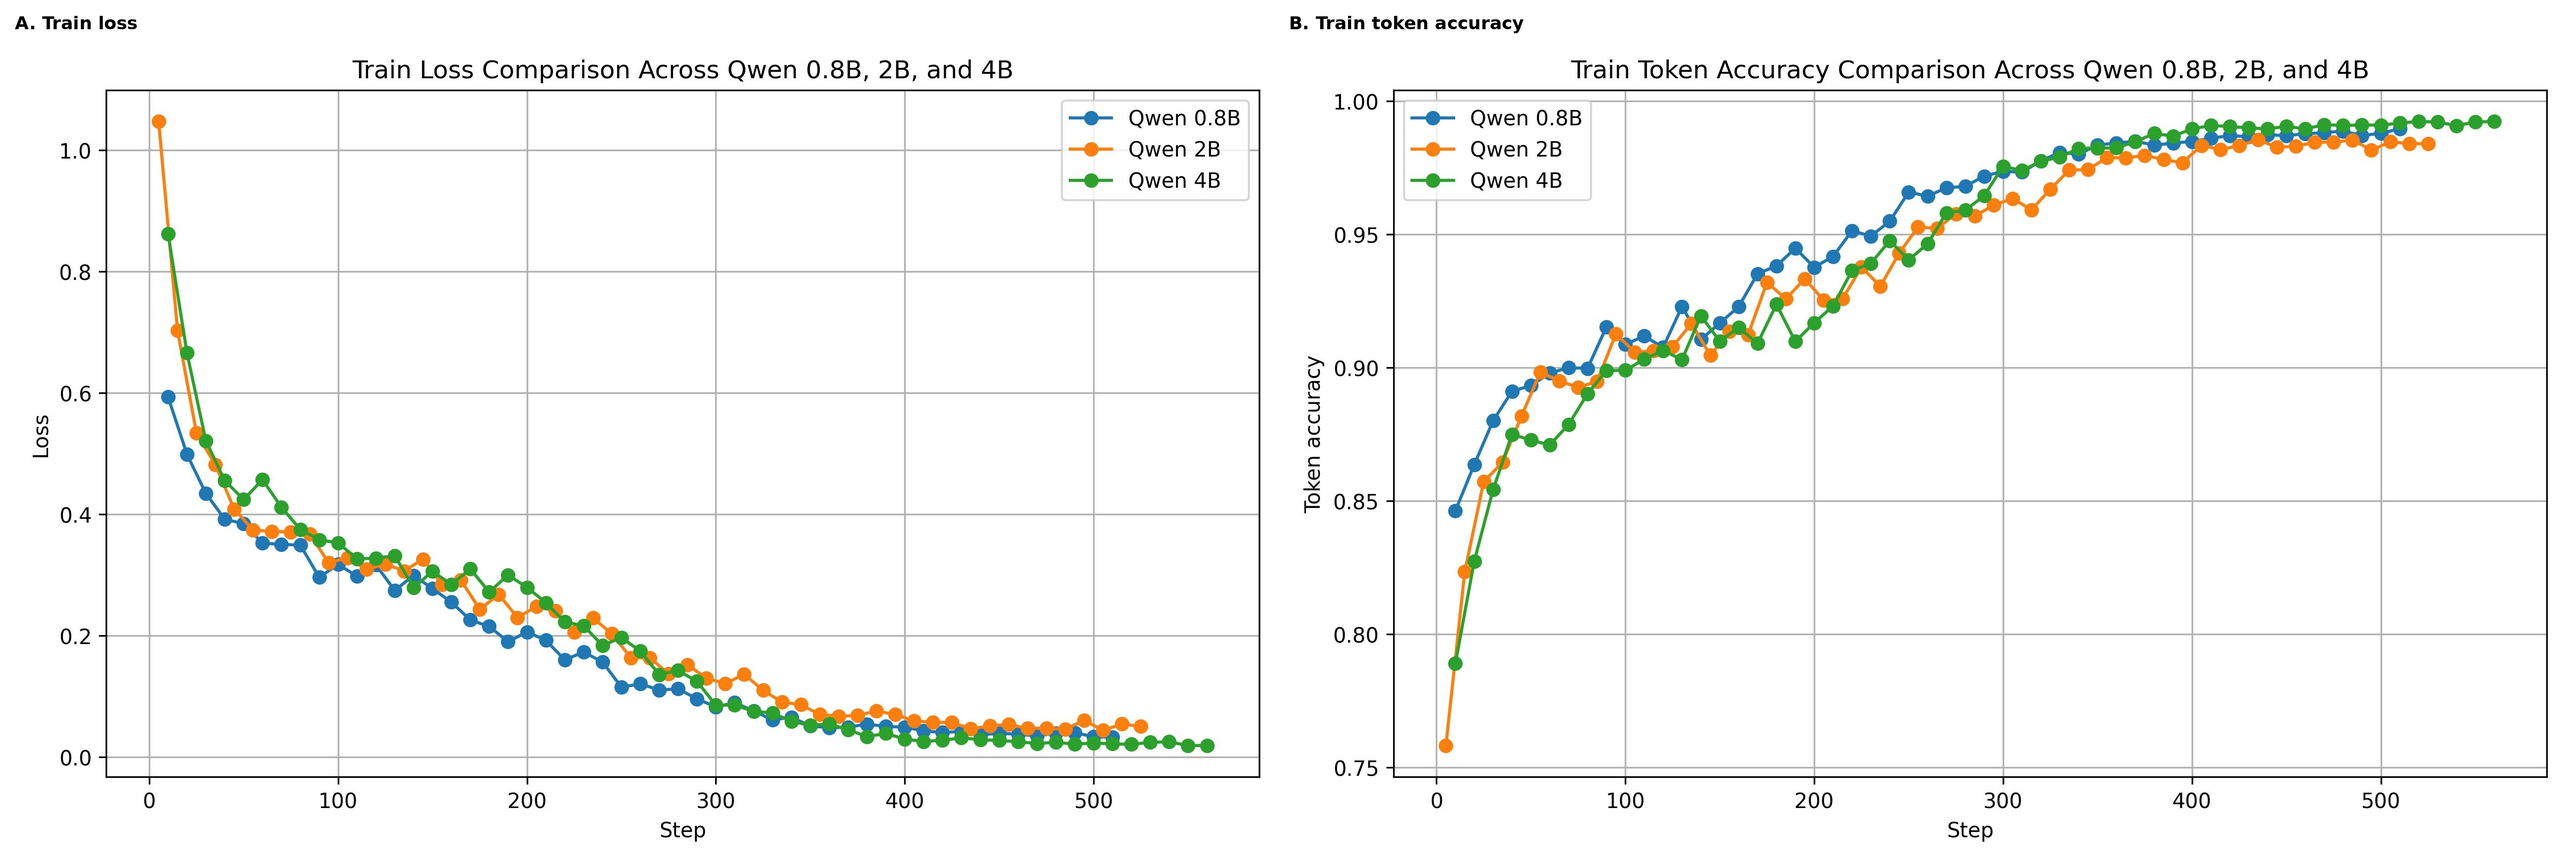
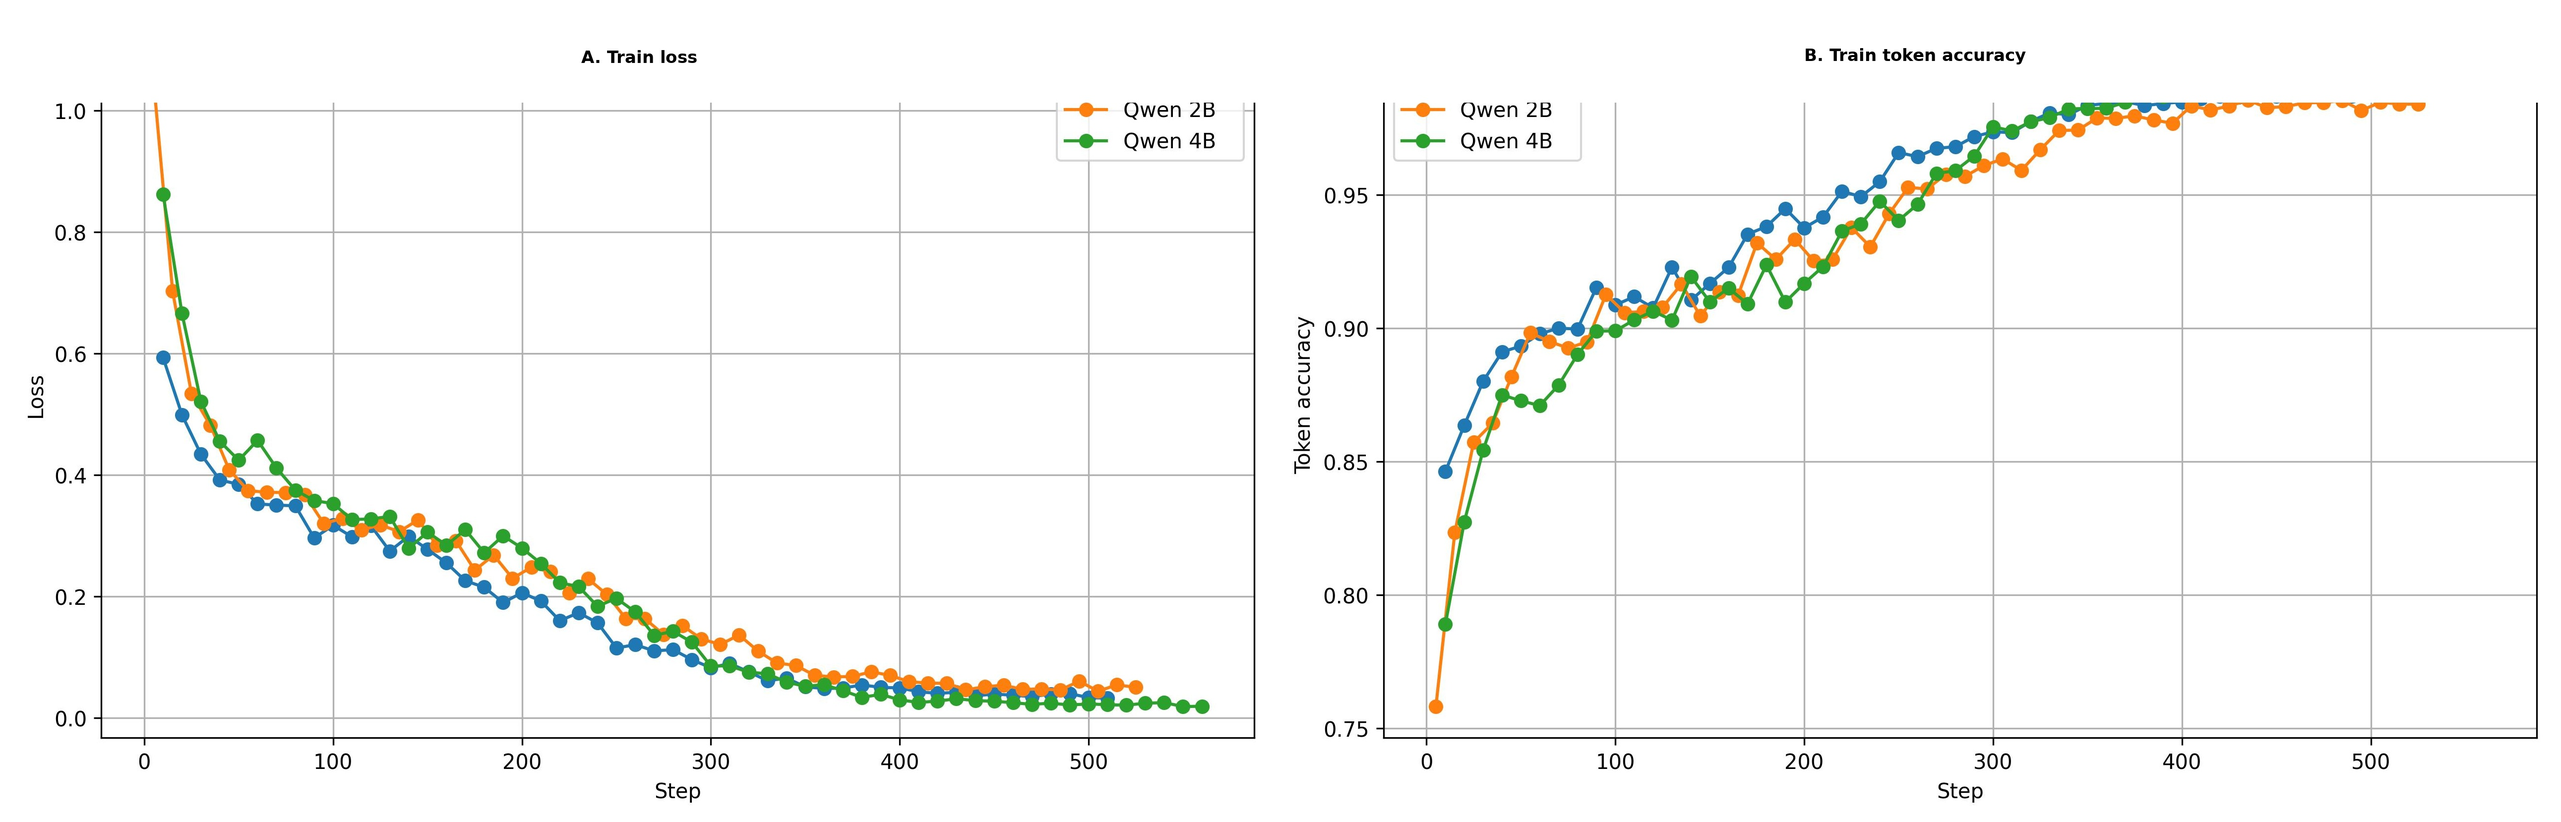
Redraw combined train curves figure v2

diff --git a/scripts/combine_train_curves_side_by_side_v2.py b/scripts/combine_train_curves_side_by_side_v2.py
@@ -5,6 +5,7 @@ IN_DIR = Path("comparison")
 img1_path = IN_DIR / "comparison_train_loss_only.jpg"
 img2_path = IN_DIR / "comparison_train_token_accuracy_only.jpg"
 
+# 直接覆盖之前的 v2 输出
 out_jpg = IN_DIR / "comparison_train_loss_token_accuracy_combined_v2.jpg"
 out_png = IN_DIR / "comparison_train_loss_token_accuracy_combined_v2.png"
 
@@ -17,48 +18,59 @@ def resize_to_height(img, target_h):
     new_w = int(img.width * target_h / img.height)
     return img.resize((new_w, target_h))
 
+def rewrite_title(img, new_title):
+    """
+    覆盖原图顶部标题区域，并重写标题。
+    目标效果：像 0.8B 六合一那种，A/B 直接写进图标题里。
+    """
+    draw = ImageDraw.Draw(img)
+    w, h = img.size
+
+    # 顶部标题带区域高度，按常见 matplotlib 图大致估计
+    title_band_h = int(h * 0.12)
+
+    # 用白色覆盖原标题区域
+    draw.rectangle([(0, 0), (w, title_band_h)], fill="white")
+
+    # 字体
+    try:
+        font = ImageFont.truetype("DejaVuSans-Bold.ttf", 34)
+    except Exception:
+        font = ImageFont.load_default()
+
+    # 居中写标题
+    bbox = draw.textbbox((0, 0), new_title, font=font)
+    text_w = bbox[2] - bbox[0]
+    text_h = bbox[3] - bbox[1]
+
+    x = (w - text_w) // 2
+    y = max(10, (title_band_h - text_h) // 2)
+
+    draw.text((x, y), new_title, fill="black", font=font)
+    return img
+
+# 先改每张图的标题
+img1 = rewrite_title(img1, "A. Train loss")
+img2 = rewrite_title(img2, "B. Train token accuracy")
+
 # 统一高度
 target_h = max(img1.height, img2.height)
 img1 = resize_to_height(img1, target_h)
 img2 = resize_to_height(img2, target_h)
 
-# 版式参数
-top_pad = 90
-side_pad = 30
-bottom_pad = 20
-gap = 30
-bg_color = "white"
-text_color = "black"
+# 左右拼接，不再额外加顶部总标题
+side_pad = 20
+gap = 20
+top_pad = 10
+bottom_pad = 10
 
 canvas_w = side_pad + img1.width + gap + img2.width + side_pad
 canvas_h = top_pad + target_h + bottom_pad
 
-canvas = Image.new("RGB", (canvas_w, canvas_h), bg_color)
-draw = ImageDraw.Draw(canvas)
+canvas = Image.new("RGB", (canvas_w, canvas_h), "white")
+canvas.paste(img1, (side_pad, top_pad))
+canvas.paste(img2, (side_pad + img1.width + gap, top_pad))
 
-# 尝试更大的字体，失败则回退默认字体
-try:
-    font = ImageFont.truetype("DejaVuSans-Bold.ttf", 36)
-except Exception:
-    font = ImageFont.load_default()
-
-# 粘贴两张图
-x1 = side_pad
-y1 = top_pad
-x2 = side_pad + img1.width + gap
-y2 = top_pad
-
-canvas.paste(img1, (x1, y1))
-canvas.paste(img2, (x2, y2))
-
-# 标题
-title1 = "A. Train loss"
-title2 = "B. Train token accuracy"
-
-draw.text((x1, 25), title1, fill=text_color, font=font)
-draw.text((x2, 25), title2, fill=text_color, font=font)
-
-# 保存
 canvas.save(out_jpg, quality=95)
 canvas.save(out_png)
 
